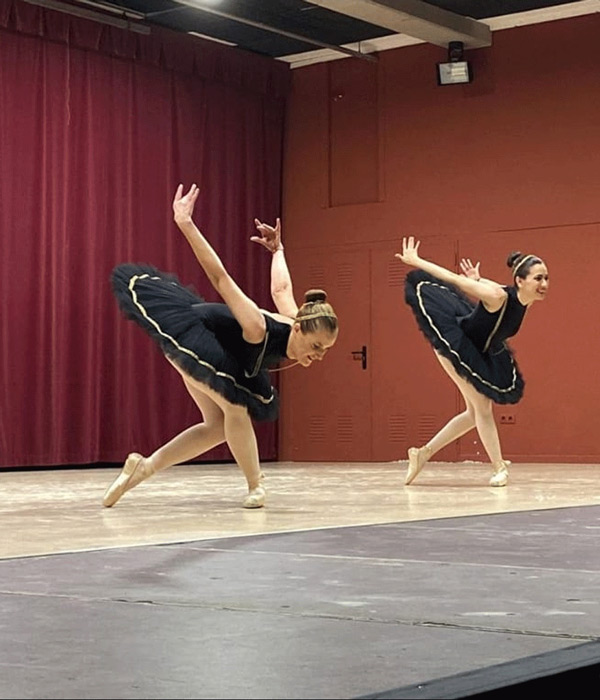
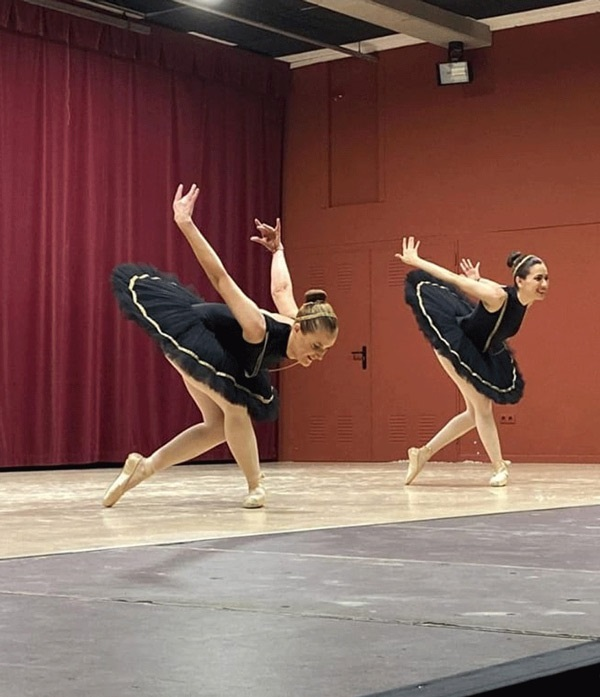
Ajustar hover del menu, fundido inicial y responsive de titulos

diff --git a/src/app/components/header/header.css b/src/app/components/header/header.css
@@ -1,7 +1,8 @@
 .header {
   background-color: #ffffffeb;
   width: 100%;
-  position: relative;              /* se sitúa por encima de la imagen */
+  position: relative;
+  /* se sitúa por encima de la imagen */
   z-index: 1;
 }
 
@@ -45,14 +46,14 @@
 }
 
 .nav-link:hover {
-  color: #b37494;
-  font-weight: 500;
+  color: #aa698e;
+  font-weight: 600;
 }
 
 .btn-matricula {
   background-color: #ffffff;
-  color:  #e386ca;
-  border: 1px solid  #e386ca;
+  color: #e386ca;
+  border: 1px solid #e386ca;
   padding: 10px 25px;
   border-radius: 5px;
   font-weight: 600;
@@ -69,7 +70,8 @@
   box-shadow: -4px 4px 8px rgba(0, 0, 0, 0.2);
   background-color: #ffffff;
   color: #b44b81;
-  border-color: #b44b81;;
+  border-color: #b44b81;
+  ;
 }
 
 /* ============================
@@ -88,8 +90,8 @@
 /* Cuando el ratón está sobre el contenedor (dropdown abierto),
    el texto ACTIVIDADES se resalta como cualquier otro link */
 .nav-item-dropdown:hover .nav-link-no-click {
-  color: #b37494;
-  font-weight: 500;
+  color: #aa698e;
+  font-weight: 600;
 }
 
 .flecha {
@@ -159,7 +161,8 @@
    (oculto en escritorio)
    ============================ */
 .menu-toggle {
-  display: none;               /* oculto por defecto */
+  display: none;
+  /* oculto por defecto */
   width: 40px;
   height: 40px;
   background: transparent;
@@ -171,7 +174,8 @@
   justify-content: center;
   align-items: center;
   gap: 5px;
-  z-index: 110;               /* por encima del menú desplegado */
+  z-index: 110;
+  /* por encima del menú desplegado */
 }
 
 .menu-toggle span {
@@ -208,7 +212,8 @@
   }
 
   .logo {
-    height: 60px;             /* logo más pequeño en móvil */
+    height: 60px;
+    /* logo más pequeño en móvil */
   }
 
   /* Mostrar el botón hamburguesa */
@@ -219,7 +224,8 @@
   /* El menú se convierte en un panel desplegable */
   .nav-menu {
     position: absolute;
-    top: 100%;                /* pegado debajo del header */
+    top: 100%;
+    /* pegado debajo del header */
     left: 0;
     right: 0;
     flex-direction: column;
@@ -230,14 +236,16 @@
     background-color: #ffffff;
     box-shadow: 0 8px 20px rgba(0, 0, 0, 0.12);
     padding: 15px 0;
-    max-height: 0;            /* cerrado por defecto */
+    max-height: 0;
+    /* cerrado por defecto */
     overflow: hidden;
     transition: max-height 0.4s ease, padding 0.4s ease;
     z-index: 100;
   }
 
   .nav-menu.abierto {
-    max-height: 600px;        /* altura máxima al abrir */
+    max-height: 600px;
+    /* altura máxima al abrir */
     padding: 15px 0;
   }
 
@@ -249,8 +257,10 @@
     border-bottom: 1px solid #f4e4ee;
   }
 
-  .nav-link:hover {
+   .nav-link:hover {
     background-color: #fce4ec;
+    color: #8a4d70;      
+    font-weight: 600;
   }
 
   /* Dropdown de ACTIVIDADES: en móvil se muestra siempre abierto dentro del panel */
@@ -259,12 +269,13 @@
     flex-direction: column;
   }
 
-  .nav-item-dropdown > .nav-link {
+  .nav-item-dropdown>.nav-link {
     border-bottom: 1px solid #f4e4ee;
   }
 
   .dropdown-menu {
-    position: static;          /* ya no es absoluto */
+    position: static;
+    /* ya no es absoluto */
     transform: none;
     opacity: 1;
     visibility: visible;

diff --git a/src/styles.css b/src/styles.css
@@ -17,6 +17,7 @@
 @font-face {
   font-family: 'Roboto Thin';
   src: url('assets/fonts/Roboto-Variable.ttf') format('truetype');
+  font-weight: 400;
   font-style: normal;
   font-display: block;
 }
@@ -24,6 +25,7 @@
 @font-face {
   font-family: 'Urban';
   src: url('assets/fonts/aaaiight-fat.ttf') format('truetype');
+  font-weight: 400;
   font-style: normal;
   font-display: block;
 }
@@ -31,12 +33,14 @@
 @font-face {
   font-family: 'Urban';
   src: url('assets/fonts/aaaiight.ttf') format('truetype');
+  font-weight: 400;
   font-style: normal;
   font-display: block;
 }
 @font-face {
   font-family: 'Bodytonic';
   src: url('assets/fonts/bodytonic.ttf') format('truetype');
+  font-weight: 400;
   font-style: normal;
   font-display: block;
 }
@@ -44,6 +48,7 @@
 @font-face {
   font-family: 'Casual';
   src: url('assets/fonts/CasualCursive-Regular.ttf') format('truetype');
+  font-weight: 400;
   font-style: normal;
   font-display: block;
 }
@@ -51,6 +56,7 @@
 @font-face {
   font-family: 'Kidsfont';
   src: url('assets/fonts/KidsHandwriting-Regular.ttf') format('truetype');
+  font-weight: 400;
   font-style: normal;
   font-display: block;
 }
@@ -58,6 +64,7 @@
 @font-face {
   font-family: 'Cardenio';
   src: url('assets/fonts/CardenioModern-Bold.otf') format('truetype');
+  font-weight: 400;
   font-style: normal;
   font-display: block;
 }

diff --git a/src/app/app.ts b/src/app/app.ts
@@ -1,15 +1,31 @@
-import { Component } from '@angular/core';
+import { Component, OnInit, Inject, PLATFORM_ID, signal } from '@angular/core';
 import { RouterOutlet } from '@angular/router';
+import { isPlatformBrowser } from '@angular/common';
 import { Header } from './components/header/header';
 import { Footer } from './components/footer/footer';
 
 @Component({
   selector: 'app-root',
-  standalone: true,
   imports: [RouterOutlet, Header, Footer],
   templateUrl: './app.html',
-  styleUrls: ['./app.css']
+  styleUrl: './app.css'
 })
-export class App {
-  title = 'escuela-danza';
+export class App implements OnInit {
+  contenidoListo = signal(false);
+  private esNavegador: boolean;
+
+  constructor(@Inject(PLATFORM_ID) platformId: Object) {
+    this.esNavegador = isPlatformBrowser(platformId);
+  }
+
+  ngOnInit(): void {
+    if (!this.esNavegador) {
+      this.contenidoListo.set(true);
+      return;
+    }
+
+    setTimeout(() => {
+      this.contenidoListo.set(true);
+    }, 600);
+  }
 }

diff --git a/src/app/components/categoria-layout/categoria-layout.css b/src/app/components/categoria-layout/categoria-layout.css
@@ -15,7 +15,7 @@
   background-position: center;
   background-repeat: no-repeat;
   position: relative;
-  border-radius: 8px;      /* bordes curvos */
+  border-radius: 5px;      /* bordes curvos */
   overflow: hidden;         /* para que el overlay también quede curvo */
   margin-bottom: 30px;      /* separación con el contenido de abajo */
 }
@@ -51,7 +51,7 @@
   gap: clamp(30px, 5vw, 70px);
   padding: clamp(30px, 2vw, 50px);
   border: 1px solid #ebbfdf;
-  border-radius: 8px;
+  border-radius: 5px;
   box-sizing: border-box;
 }
 
@@ -284,8 +284,8 @@
   width: 100%;
   max-width: 500px;
   height: auto;
-  border-radius: 12px;
-  box-shadow: 0 6px 20px rgba(0, 0, 0, 0.15);
+  border-radius: 0px;
+  box-shadow: 6px 6px 15px rgba(0, 0, 0, 0.459);
   display: block;
 }
 
@@ -307,7 +307,7 @@
   }
 
   .banner-titulo {
-    font-size: 3rem;
+    font-size: 2rem;
   }
 
   .contenido {

diff --git a/src/app/app.css b/src/app/app.css
@@ -1,0 +1,20 @@
+/* ============================
+   FUNDIDO INICIAL AL CARGAR
+   ============================ */
+.fade-overlay {
+  position: fixed;
+  top: 0;
+  left: 0;
+  width: 100vw;
+  height: 100vh;
+  background-color: #ffffff;
+  z-index: 9999;
+  opacity: 1;
+  transition: opacity 0.7s ease;
+  pointer-events: none;
+}
+
+.fade-overlay.oculto {
+  opacity: 0;
+  pointer-events: none;
+}

diff --git a/src/app/pages/danzaclasica/danzaclasica.ts b/src/app/pages/danzaclasica/danzaclasica.ts
@@ -12,7 +12,7 @@ export class Danzaclasica {
   fuenteTitulo = "'Gwendolyn', cursive";
   subtitulo = '¡La esencia más pura del ballet clásico!';
   imagenBanner = 'banner-danzacl.jpg';
-  imagenLateral = 'danzacl1.png';
+  imagenLateral = 'danzacl1.jpg';
   intro = 'Desde los 3 años y SIN LÍMITE DE EDAD.';
 
   grupos: Grupo[] = [

diff --git a/src/app/pages/danzaurbana/danzaurbana.ts b/src/app/pages/danzaurbana/danzaurbana.ts
@@ -12,7 +12,7 @@ export class Danzaurbana {
   fuenteTitulo = "'Urban'";
   subtitulo = '¡Disfruta del street dance en el aula!';
   imagenBanner = 'banner-danzaurb.jpg';
-  imagenLateral = 'danzaurb1.png';
+  imagenLateral = 'danzaurb1.jpg';
   intro = 'Desde los 3 años y SIN LÍMITE DE EDAD.';
 
   grupos: Grupo[] = [

diff --git a/src/app/components/header/header.ts b/src/app/components/header/header.ts
@@ -18,7 +18,6 @@ export class Header {
   cerrarMenu(): void {
     this.menuAbierto = false;
   }
-
   @HostListener('document:click', ['$event'])
   onClickFuera(event: MouseEvent): void {
     const target = event.target as HTMLElement;
@@ -27,4 +26,5 @@ export class Header {
       this.cerrarMenu();
     }
   }
+
 }

diff --git a/src/app/app.html b/src/app/app.html
@@ -1,3 +1,6 @@
+<!-- Capa de fundido blanco -->
+<div class="fade-overlay" [class.oculto]="contenidoListo()"></div>
+
 <app-header></app-header>
 
 <router-outlet></router-outlet>
